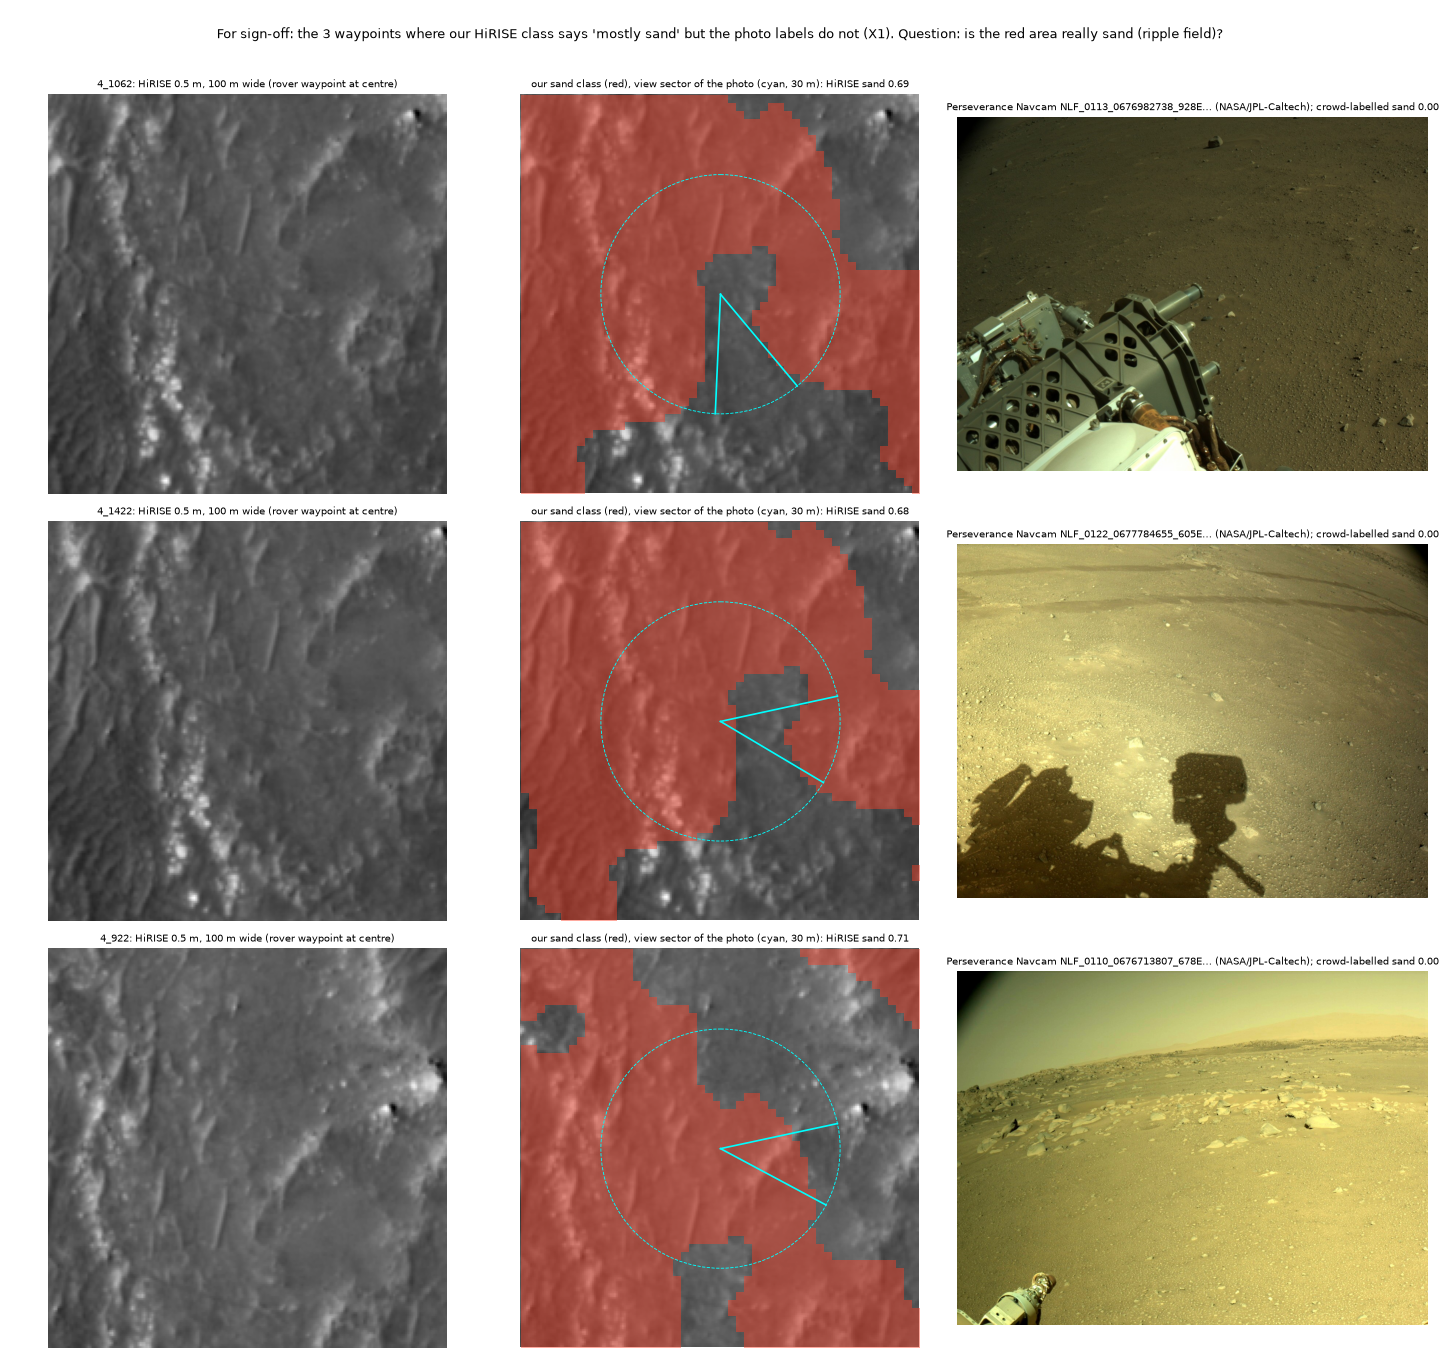
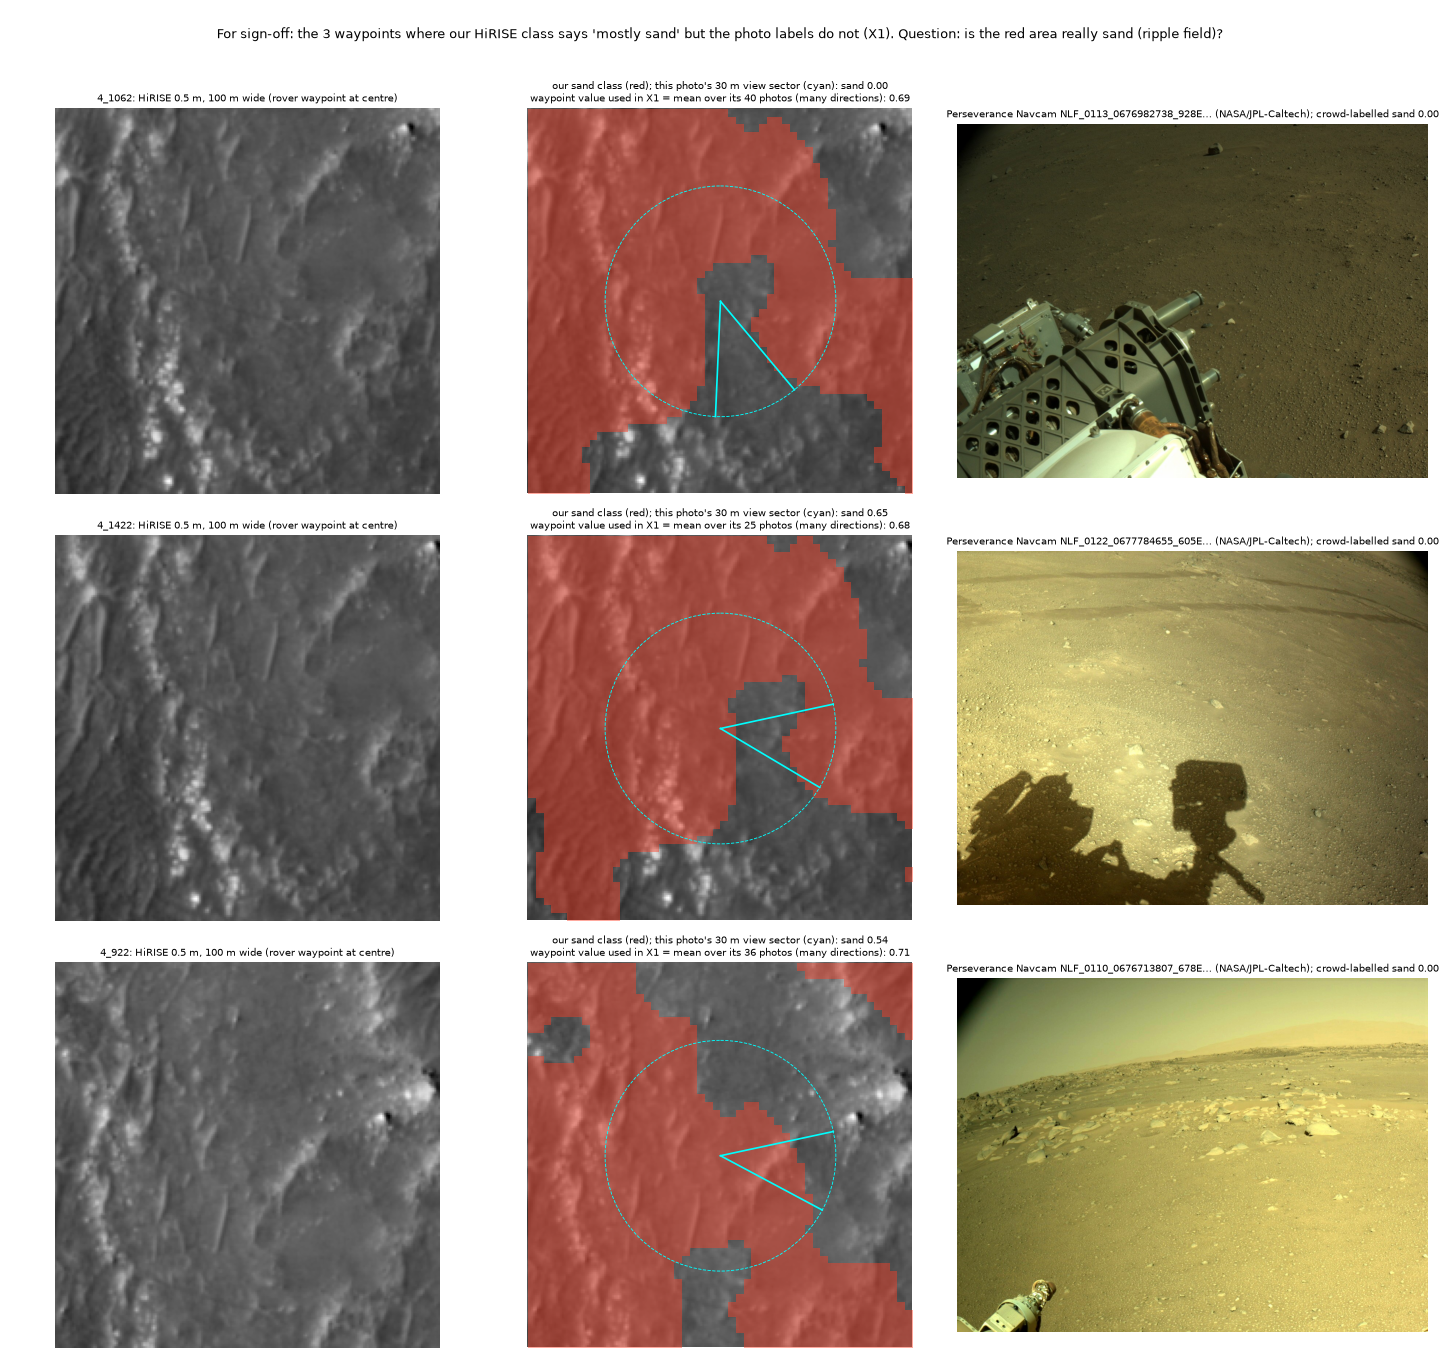
Sign-off sheet titles: this photo's sector share vs the waypoint mean over all its photos (figure label only; no number changed)
Claude-Session: https://claude.ai/code/session_01PJvXnofSRBXUdNFScTHsf8

diff --git a/spikes/x1_panels.py b/spikes/x1_panels.py
@@ -78,7 +78,9 @@ for k, w in enumerate(HONLY):
     for th in (i["view"]["edge_left_deg"], i["view"]["edge_right_deg"]):
         a.plot([px, px + 60 * math.sin(math.radians(th))], [px, px - 60 * math.cos(math.radians(th))], color="cyan", lw=1.5)
     a.add_patch(plt.Circle((px, px), 60, fill=False, color="cyan", lw=0.8, ls="--"))
-    a.set_title(f"our sand class (red), view sector of the photo (cyan, 30 m): HiRISE sand {[r for r in X['groups']['sector']['rows'] if r['wp'] == w][0]['hirise_sand']:.2f}", fontsize=9); a.axis("off")
+    row = [r for r in X['groups']['sector']['rows'] if r['wp'] == w][0]
+    a.set_title(f"our sand class (red); this photo's 30 m view sector (cyan): sand {i['hirise_sand']:.2f}\n"
+                f"waypoint value used in X1 = mean over its {row['n_images']} photos (many directions): {row['hirise_sand']:.2f}", fontsize=9); a.axis("off")
     a = ax[k, 2]; a.imshow(Image.open(img_path(i["stem"]))); a.axis("off")
     a.set_title(f"Perseverance Navcam {i['stem'][:24]}… (NASA/JPL-Caltech); crowd-labelled sand {i['photo_sand']:.2f}", fontsize=9)
 fig.suptitle("For sign-off: the 3 waypoints where our HiRISE class says 'mostly sand' but the photo labels do not (X1). "
